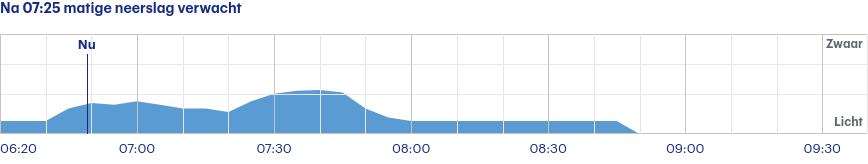
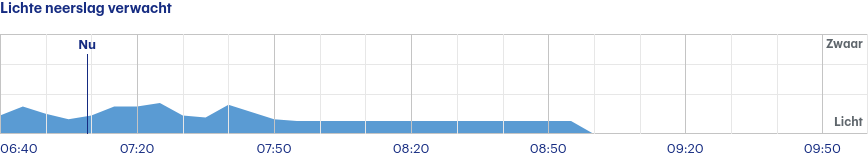
Latest scraping buienradar: Sun Aug  6 05:00:39 UTC 2023

diff --git a/scrapes/buienradar/buienradar-jette-3-uur.md b/scrapes/buienradar/buienradar-jette-3-uur.md
@@ -1,4 +1,4 @@
-Na 07:25 matige neerslag verwacht
+Lichte neerslag verwacht
 
 ![](buienradar-jette-3-uur.png)
 
